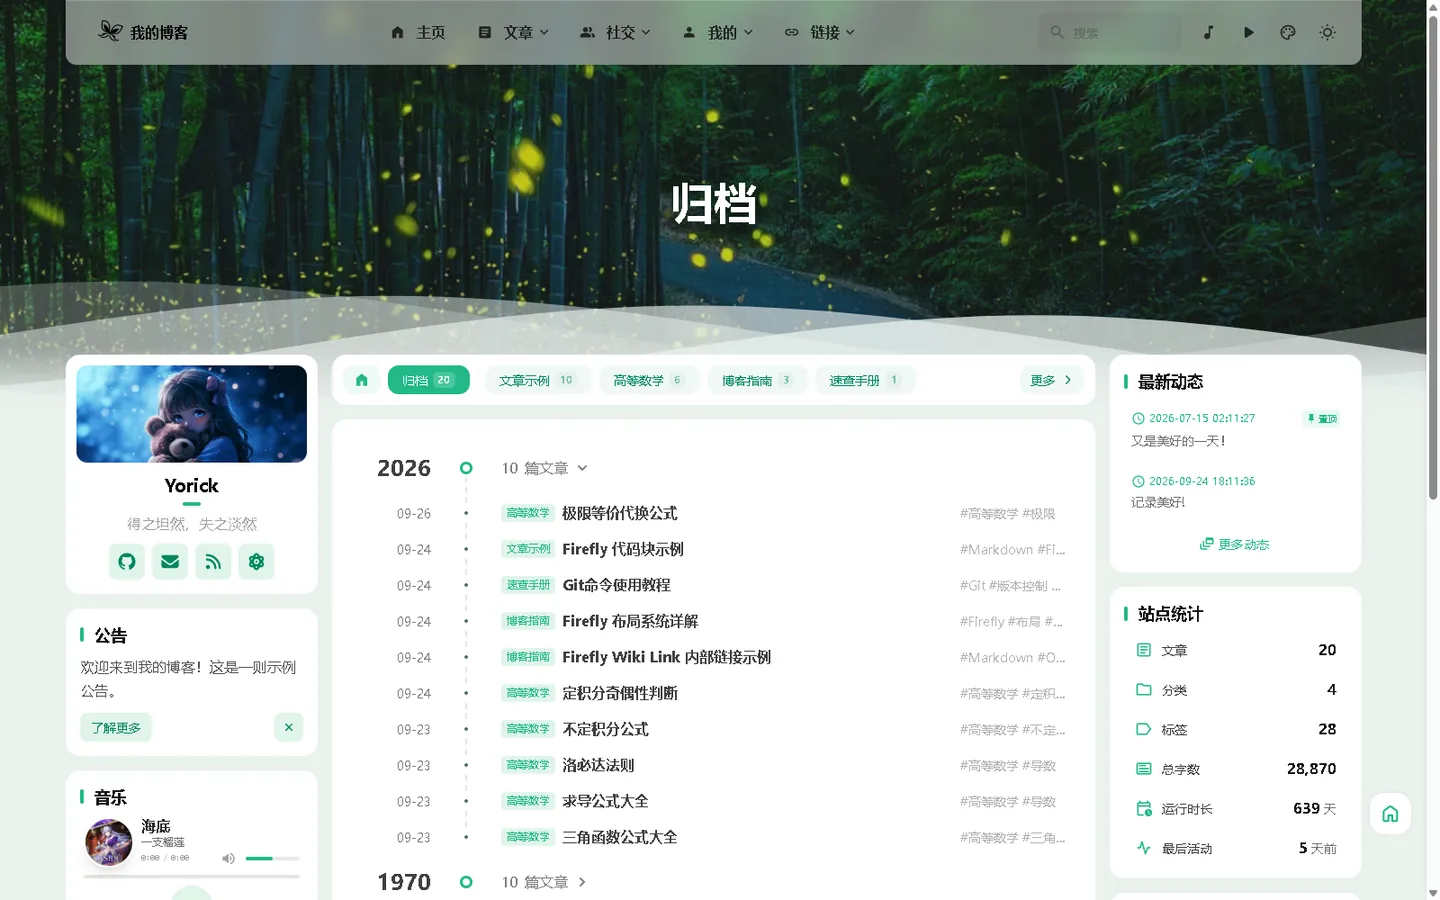
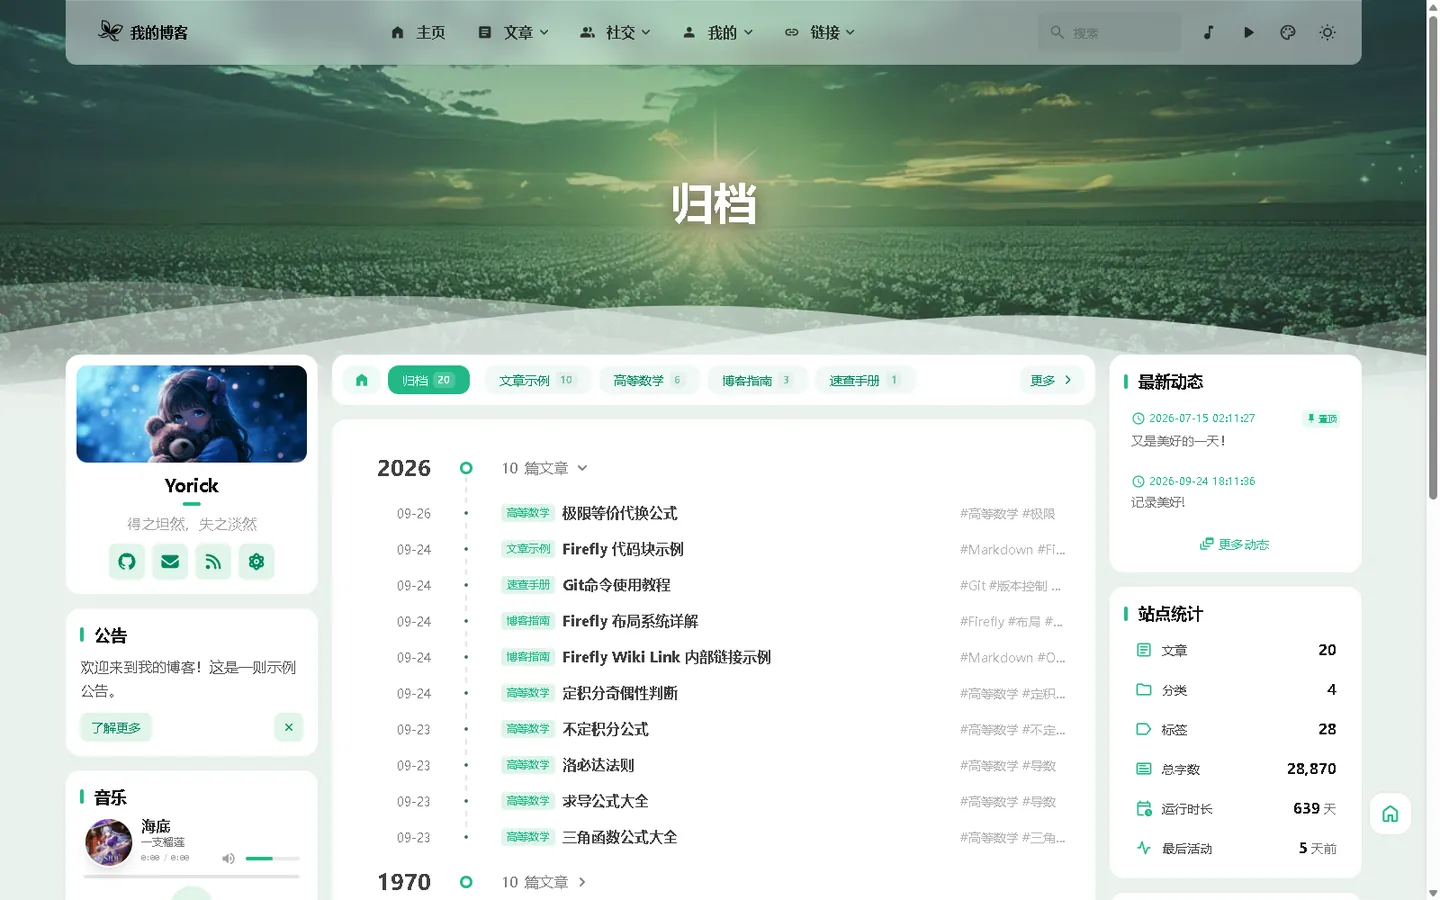
docs(readme): 界面速览补充移动端截图，全部截图重新实机截取
- 桌面端 6 张、移动端 5 张，均来自同一次 pnpm build + pnpm preview 的生产构建
- 界面速览拆分为「桌面端 / 移动端」两节，移动端覆盖首页、文章页、归档、动态、相册

diff --git a/README.md b/README.md
@@ -27,7 +27,9 @@
 
 ## 🖼 界面速览
 
-下面这些图都是把项目在本地跑起来（`pnpm build` + `pnpm preview`）之后实机截的，没有用主题作者的演示图。
+下面这些图都是把项目在本地跑起来（`pnpm build` + `pnpm preview`）之后实机截的，没有用主题作者的演示图：桌面端 1600×1000，移动端 430×932，移动端截图与桌面端取自同一个构建产物。
+
+### 桌面端
 
 **首页 · 暗色** —— 壁纸与主题色跟随「亮色 / 暗色 / 跟随系统」切换
 
@@ -49,9 +51,29 @@
 
 ![相册页](./docs/screenshots/gallery.webp)
 
-**移动端首页** —— 导航收成抽屉，文章列表自动切单列
+### 移动端
+
+和桌面端同一套页面，导航收成抽屉、文章列表自动切单列、侧边栏内容下沉到文章之后。
+
+**首页** —— 横幅、分类导航与文章卡片
 
 ![移动端首页](./docs/screenshots/mobile-home.webp)
+
+**文章页** —— 公式表格在窄屏下横向滚动
+
+![移动端文章页 · 不定积分公式](./docs/screenshots/mobile-post-math.webp)
+
+**归档页** —— 时间轴与分类筛选
+
+![移动端归档页](./docs/screenshots/mobile-archive.webp)
+
+**动态页** —— 随手记与按年筛选
+
+![移动端动态页](./docs/screenshots/mobile-dynamic.webp)
+
+**相册页** —— 相册卡片与加密标识
+
+![移动端相册页](./docs/screenshots/mobile-gallery.webp)
 
 壁纸文件放在 `public/assets/images/DesktopWallpaper/`，刷新时会按配置随机抽取，所以每张截图里的背景都不一样。
 
